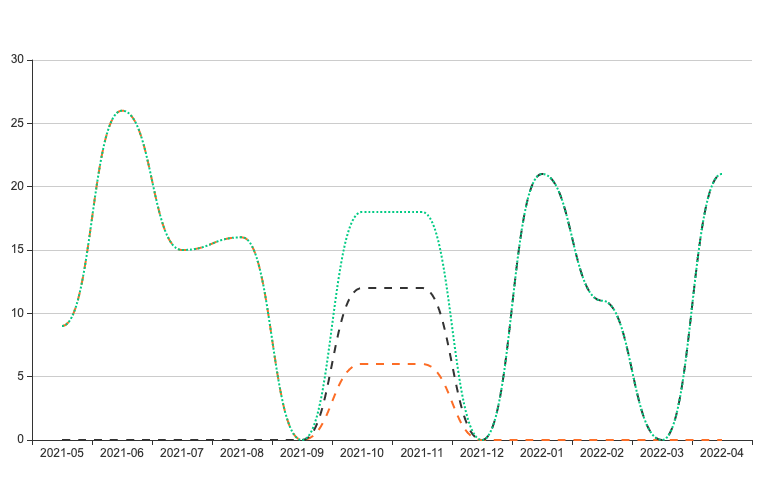
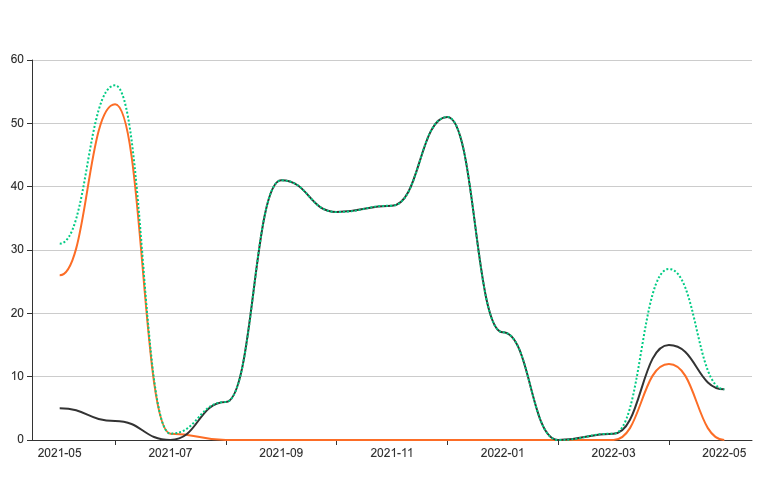
Update makefile to use go binary, update html and image

diff --git a/out/charts/lines.html b/out/charts/lines.html
@@ -9,14 +9,14 @@
 
 <body>
 <div class="container">
-    <div class="item" id="pncjexUTNITG" style="width:900px;height:500px;"></div>
+    <div class="item" id="sOTIwBlWsuvT" style="width:900px;height:500px;"></div>
 </div>
 
 <script type="text/javascript">
     "use strict";
-    let goecharts_pncjexUTNITG = echarts.init(document.getElementById('pncjexUTNITG'), "white");
-    let option_pncjexUTNITG = {"backgroundColor":"transparent","color":["#5470c6","#91cc75","#fac858","#ee6666","#73c0de","#3ba272","#fc8452","#9a60b4","#ea7ccc"],"legend":{"show":false},"series":[{"name":"Gitlab","type":"line","smooth":true,"waveAnimation":false,"renderLabelForZeroData":false,"selectedMode":false,"animation":false,"data":[{"name":"2021-05","value":26,"symbol":"none","XAxisIndex":0,"YAxisIndex":0},{"name":"2021-06","value":53,"symbol":"none","XAxisIndex":0,"YAxisIndex":0},{"name":"2021-07","value":1,"symbol":"none","XAxisIndex":0,"YAxisIndex":0},{"name":"2021-08","value":0,"symbol":"none","XAxisIndex":0,"YAxisIndex":0},{"name":"2021-09","value":0,"symbol":"none","XAxisIndex":0,"YAxisIndex":0},{"name":"2021-10","value":0,"symbol":"none","XAxisIndex":0,"YAxisIndex":0},{"name":"2021-11","value":0,"symbol":"none","XAxisIndex":0,"YAxisIndex":0},{"name":"2021-12","value":0,"symbol":"none","XAxisIndex":0,"YAxisIndex":0},{"name":"2022-01","value":0,"symbol":"none","XAxisIndex":0,"YAxisIndex":0},{"name":"2022-02","value":0,"symbol":"none","XAxisIndex":0,"YAxisIndex":0},{"name":"2022-03","value":0,"symbol":"none","XAxisIndex":0,"YAxisIndex":0},{"name":"2022-04","value":12,"symbol":"none","XAxisIndex":0,"YAxisIndex":0},{"name":"2022-05","value":0,"symbol":"none","XAxisIndex":0,"YAxisIndex":0}],"lineStyle":{"color":"#FC6D26","type":"solid"}},{"name":"Github","type":"line","smooth":true,"waveAnimation":false,"renderLabelForZeroData":false,"selectedMode":false,"animation":false,"data":[{"name":"2021-05","value":5,"symbol":"none","XAxisIndex":0,"YAxisIndex":0},{"name":"2021-06","value":3,"symbol":"none","XAxisIndex":0,"YAxisIndex":0},{"name":"2021-07","value":0,"symbol":"none","XAxisIndex":0,"YAxisIndex":0},{"name":"2021-08","value":6,"symbol":"none","XAxisIndex":0,"YAxisIndex":0},{"name":"2021-09","value":41,"symbol":"none","XAxisIndex":0,"YAxisIndex":0},{"name":"2021-10","value":36,"symbol":"none","XAxisIndex":0,"YAxisIndex":0},{"name":"2021-11","value":37,"symbol":"none","XAxisIndex":0,"YAxisIndex":0},{"name":"2021-12","value":51,"symbol":"none","XAxisIndex":0,"YAxisIndex":0},{"name":"2022-01","value":17,"symbol":"none","XAxisIndex":0,"YAxisIndex":0},{"name":"2022-02","value":0,"symbol":"none","XAxisIndex":0,"YAxisIndex":0},{"name":"2022-03","value":1,"symbol":"none","XAxisIndex":0,"YAxisIndex":0},{"name":"2022-04","value":15,"symbol":"none","XAxisIndex":0,"YAxisIndex":0},{"name":"2022-05","value":8,"symbol":"none","XAxisIndex":0,"YAxisIndex":0}],"lineStyle":{"color":"#00000","type":"solid"}},{"name":"Combined","type":"line","smooth":true,"waveAnimation":false,"renderLabelForZeroData":false,"selectedMode":false,"animation":false,"data":[{"name":"2021-05","value":31,"symbol":"none","XAxisIndex":0,"YAxisIndex":0},{"name":"2021-06","value":56,"symbol":"none","XAxisIndex":0,"YAxisIndex":0},{"name":"2021-07","value":1,"symbol":"none","XAxisIndex":0,"YAxisIndex":0},{"name":"2021-08","value":6,"symbol":"none","XAxisIndex":0,"YAxisIndex":0},{"name":"2021-09","value":41,"symbol":"none","XAxisIndex":0,"YAxisIndex":0},{"name":"2021-10","value":36,"symbol":"none","XAxisIndex":0,"YAxisIndex":0},{"name":"2021-11","value":37,"symbol":"none","XAxisIndex":0,"YAxisIndex":0},{"name":"2021-12","value":51,"symbol":"none","XAxisIndex":0,"YAxisIndex":0},{"name":"2022-01","value":17,"symbol":"none","XAxisIndex":0,"YAxisIndex":0},{"name":"2022-02","value":0,"symbol":"none","XAxisIndex":0,"YAxisIndex":0},{"name":"2022-03","value":1,"symbol":"none","XAxisIndex":0,"YAxisIndex":0},{"name":"2022-04","value":27,"symbol":"none","XAxisIndex":0,"YAxisIndex":0},{"name":"2022-05","value":8,"symbol":"none","XAxisIndex":0,"YAxisIndex":0}],"lineStyle":{"color":"#02CB84","type":"dotted"}}],"title":{},"tooltip":{"show":false},"xAxis":[{"data":["2021-05","2021-06","2021-07","2021-08","2021-09","2021-10","2021-11","2021-12","2022-01","2022-02","2022-03","2022-04","2022-05"]}],"yAxis":[{}]};
-    goecharts_pncjexUTNITG.setOption(option_pncjexUTNITG);
+    let goecharts_sOTIwBlWsuvT = echarts.init(document.getElementById('sOTIwBlWsuvT'), "white");
+    let option_sOTIwBlWsuvT = {"backgroundColor":"transparent","color":["#5470c6","#91cc75","#fac858","#ee6666","#73c0de","#3ba272","#fc8452","#9a60b4","#ea7ccc"],"legend":{"show":false},"series":[{"name":"Gitlab","type":"line","smooth":true,"waveAnimation":false,"renderLabelForZeroData":false,"selectedMode":false,"animation":false,"data":[{"name":"2021-05","value":26,"symbol":"none","XAxisIndex":0,"YAxisIndex":0},{"name":"2021-06","value":53,"symbol":"none","XAxisIndex":0,"YAxisIndex":0},{"name":"2021-07","value":1,"symbol":"none","XAxisIndex":0,"YAxisIndex":0},{"name":"2021-08","value":0,"symbol":"none","XAxisIndex":0,"YAxisIndex":0},{"name":"2021-09","value":0,"symbol":"none","XAxisIndex":0,"YAxisIndex":0},{"name":"2021-10","value":0,"symbol":"none","XAxisIndex":0,"YAxisIndex":0},{"name":"2021-11","value":0,"symbol":"none","XAxisIndex":0,"YAxisIndex":0},{"name":"2021-12","value":0,"symbol":"none","XAxisIndex":0,"YAxisIndex":0},{"name":"2022-01","value":0,"symbol":"none","XAxisIndex":0,"YAxisIndex":0},{"name":"2022-02","value":0,"symbol":"none","XAxisIndex":0,"YAxisIndex":0},{"name":"2022-03","value":0,"symbol":"none","XAxisIndex":0,"YAxisIndex":0},{"name":"2022-04","value":12,"symbol":"none","XAxisIndex":0,"YAxisIndex":0},{"name":"2022-05","value":0,"symbol":"none","XAxisIndex":0,"YAxisIndex":0}],"lineStyle":{"color":"#FC6D26","type":"solid"}},{"name":"Github","type":"line","smooth":true,"waveAnimation":false,"renderLabelForZeroData":false,"selectedMode":false,"animation":false,"data":[{"name":"2021-05","value":5,"symbol":"none","XAxisIndex":0,"YAxisIndex":0},{"name":"2021-06","value":3,"symbol":"none","XAxisIndex":0,"YAxisIndex":0},{"name":"2021-07","value":0,"symbol":"none","XAxisIndex":0,"YAxisIndex":0},{"name":"2021-08","value":6,"symbol":"none","XAxisIndex":0,"YAxisIndex":0},{"name":"2021-09","value":41,"symbol":"none","XAxisIndex":0,"YAxisIndex":0},{"name":"2021-10","value":36,"symbol":"none","XAxisIndex":0,"YAxisIndex":0},{"name":"2021-11","value":37,"symbol":"none","XAxisIndex":0,"YAxisIndex":0},{"name":"2021-12","value":51,"symbol":"none","XAxisIndex":0,"YAxisIndex":0},{"name":"2022-01","value":17,"symbol":"none","XAxisIndex":0,"YAxisIndex":0},{"name":"2022-02","value":0,"symbol":"none","XAxisIndex":0,"YAxisIndex":0},{"name":"2022-03","value":1,"symbol":"none","XAxisIndex":0,"YAxisIndex":0},{"name":"2022-04","value":15,"symbol":"none","XAxisIndex":0,"YAxisIndex":0},{"name":"2022-05","value":8,"symbol":"none","XAxisIndex":0,"YAxisIndex":0}],"lineStyle":{"color":"#00000","type":"solid"}},{"name":"Combined","type":"line","smooth":true,"waveAnimation":false,"renderLabelForZeroData":false,"selectedMode":false,"animation":false,"data":[{"name":"2021-05","value":31,"symbol":"none","XAxisIndex":0,"YAxisIndex":0},{"name":"2021-06","value":56,"symbol":"none","XAxisIndex":0,"YAxisIndex":0},{"name":"2021-07","value":1,"symbol":"none","XAxisIndex":0,"YAxisIndex":0},{"name":"2021-08","value":6,"symbol":"none","XAxisIndex":0,"YAxisIndex":0},{"name":"2021-09","value":41,"symbol":"none","XAxisIndex":0,"YAxisIndex":0},{"name":"2021-10","value":36,"symbol":"none","XAxisIndex":0,"YAxisIndex":0},{"name":"2021-11","value":37,"symbol":"none","XAxisIndex":0,"YAxisIndex":0},{"name":"2021-12","value":51,"symbol":"none","XAxisIndex":0,"YAxisIndex":0},{"name":"2022-01","value":17,"symbol":"none","XAxisIndex":0,"YAxisIndex":0},{"name":"2022-02","value":0,"symbol":"none","XAxisIndex":0,"YAxisIndex":0},{"name":"2022-03","value":1,"symbol":"none","XAxisIndex":0,"YAxisIndex":0},{"name":"2022-04","value":27,"symbol":"none","XAxisIndex":0,"YAxisIndex":0},{"name":"2022-05","value":8,"symbol":"none","XAxisIndex":0,"YAxisIndex":0}],"lineStyle":{"color":"#02CB84","type":"dotted"}}],"title":{},"tooltip":{"show":false},"xAxis":[{"data":["2021-05","2021-06","2021-07","2021-08","2021-09","2021-10","2021-11","2021-12","2022-01","2022-02","2022-03","2022-04","2022-05"]}],"yAxis":[{}]};
+    goecharts_sOTIwBlWsuvT.setOption(option_sOTIwBlWsuvT);
 </script>
 
 <style>
